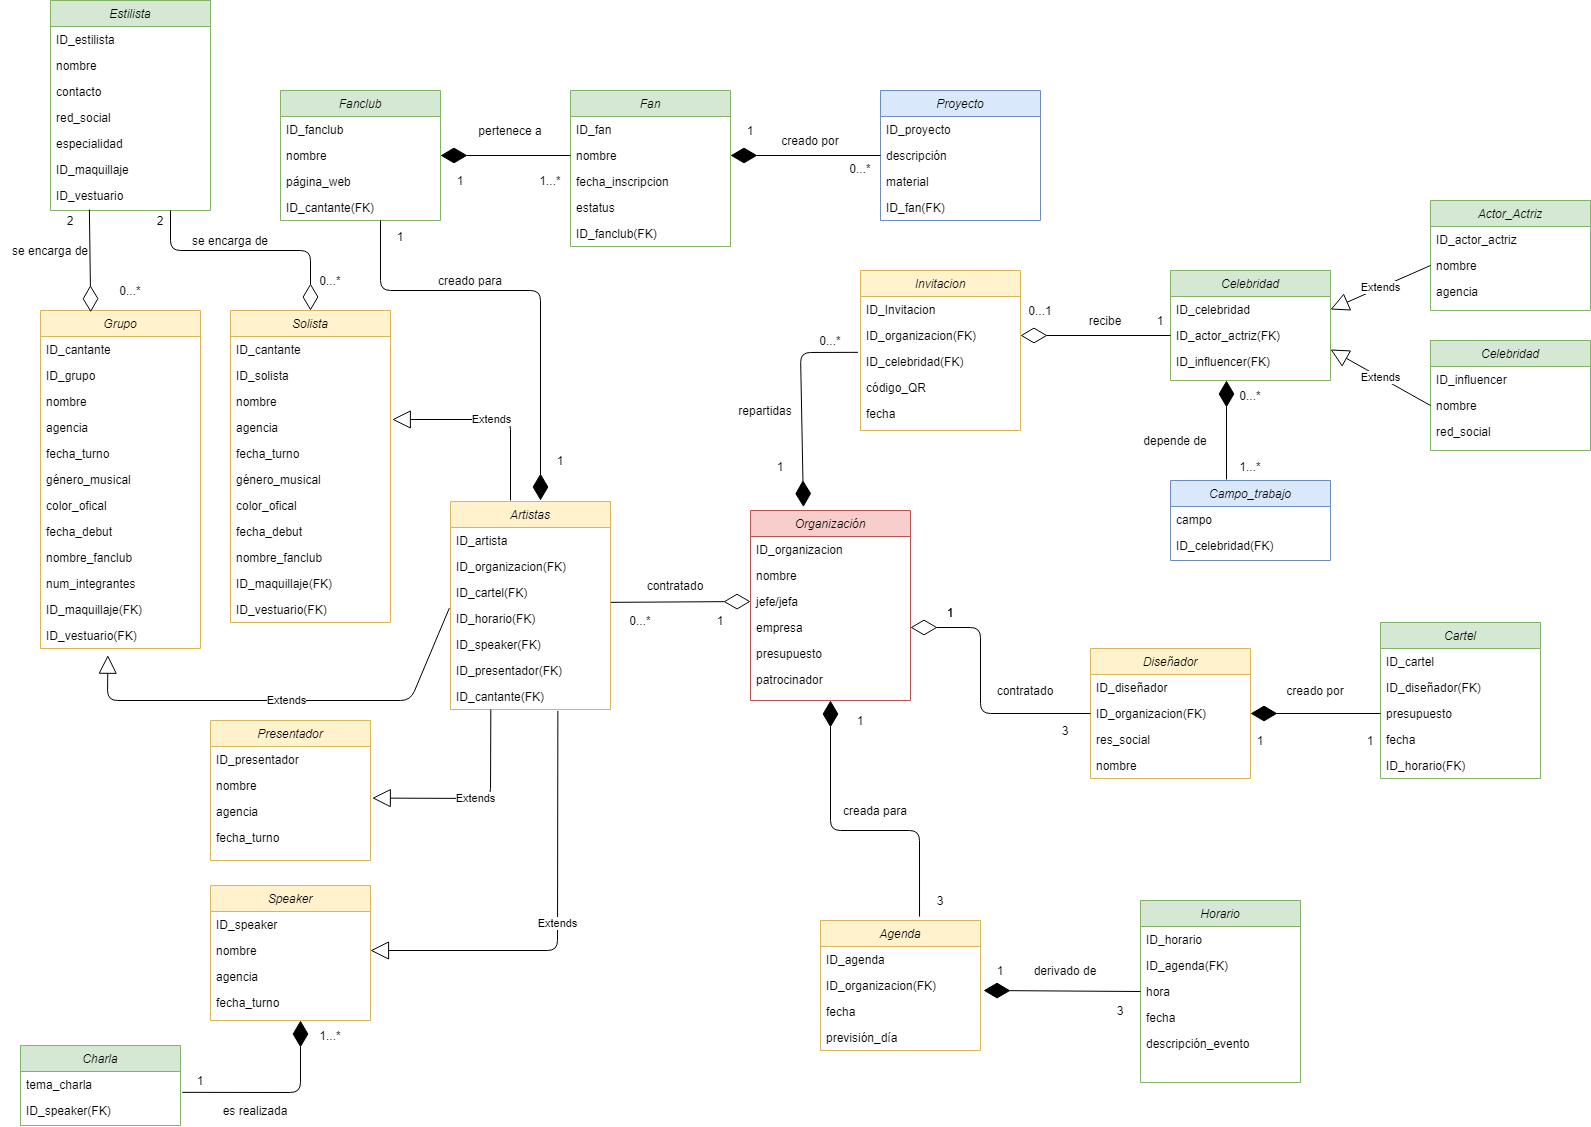
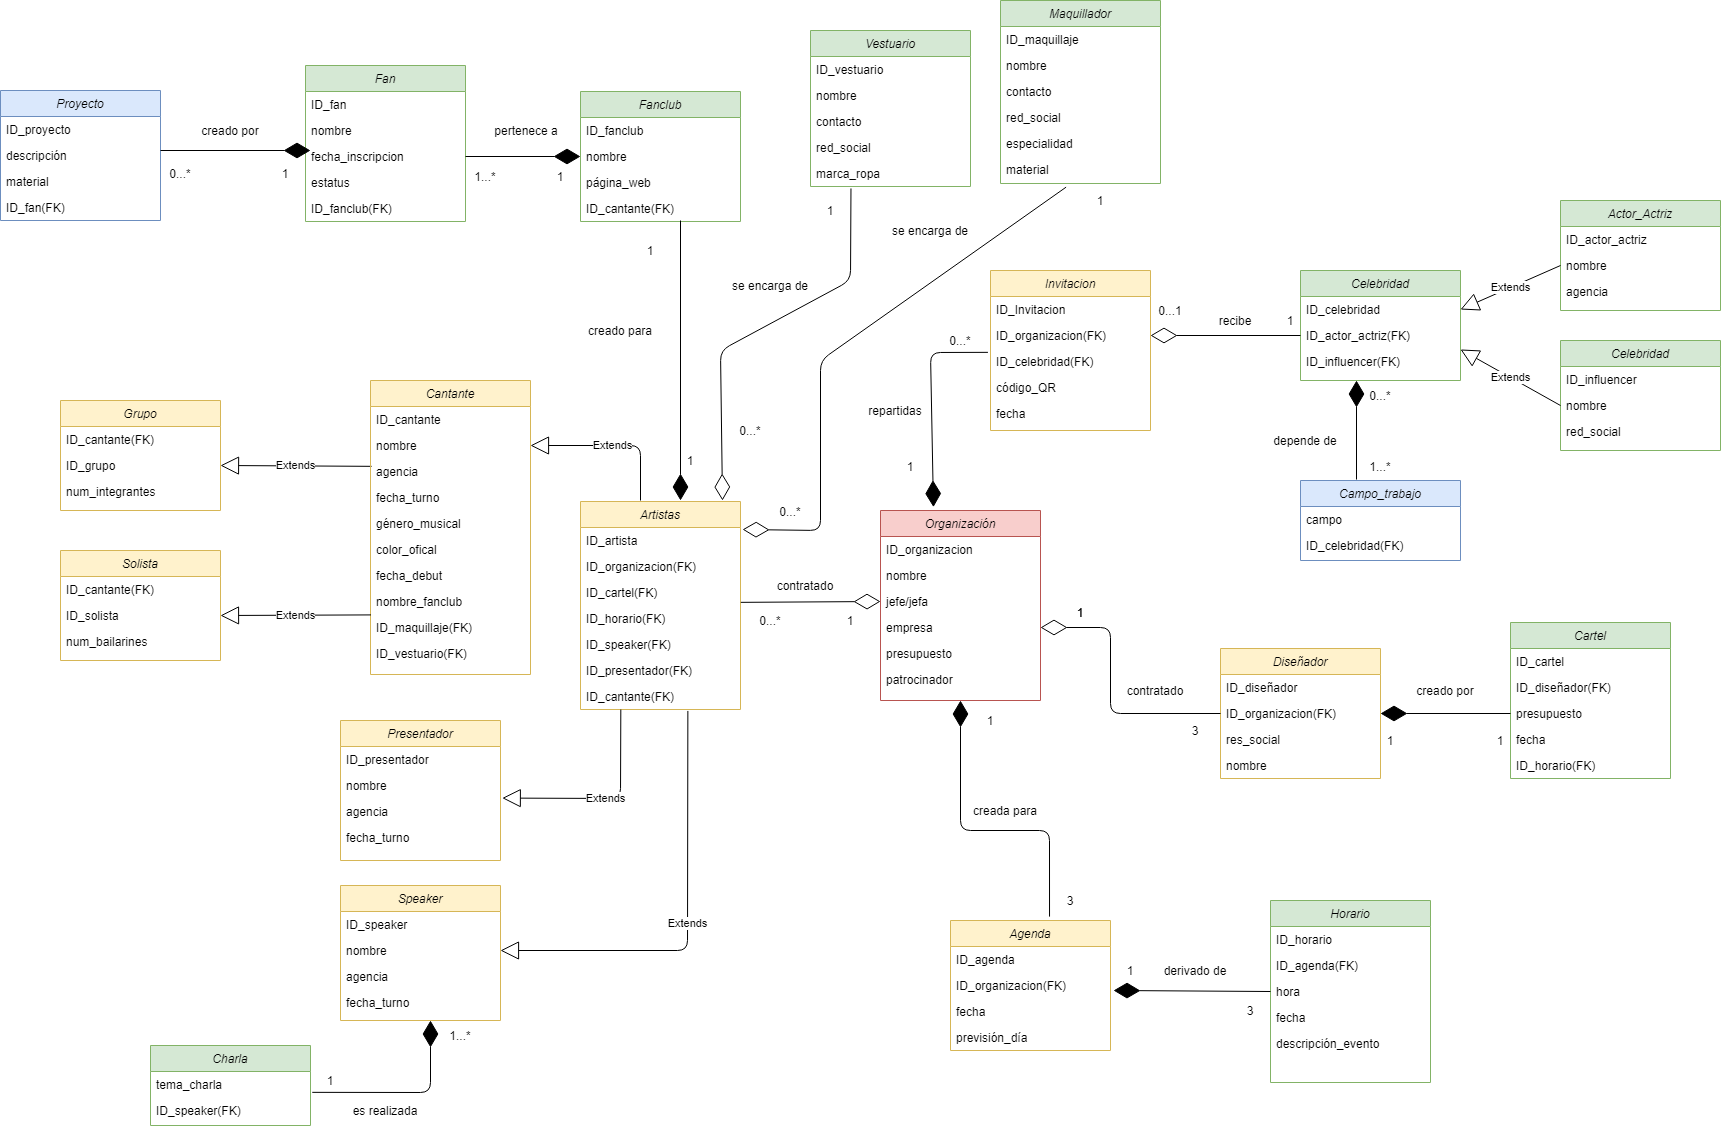
Actualizado archivos con nuevas especificaciones

diff --git a/Documentación/4.2-Creación_de_Tablas.md b/Documentación/4.2-Creación_de_Tablas.md
@@ -1,11 +1,13 @@
 ## 4-Modelo Físico
 ### 4.2-Creación de tablas y otros objetos
 
+Están en orden de creación, si no se crearan así algunas de ellas no serían posibles de hacer.
+
 ```sql
 DROP DATABASE IF EXISTS artistas;
 CREATE DATABASE artistas OWNER dbo_daw1_a;
 
--- Creación de tablas: Area Organizacion
+-- Creación de tablas: Area Artistas
 --
 CREATE TABLE organizacion (
     id_organizacion INT CONSTRAINT organizacion_pk PRIMARY KEY,
@@ -16,142 +18,52 @@ CREATE TABLE organizacion (
     patrocinador VARCHAR(20)
 );
 
--- Creación de tablas: Area Artistas
+-- Creación de tablas: Area Agenda
 --
-CREATE TABLE artistas(
-    id_artistas INT CONSTRAINT artistas_pk PRIMARY KEY,
+CREATE TABLE agenda (
+    id_agenda INT CONSTRAINT agenda_pk PRIMARY KEY,
+    fecha DATE NOT NULL,
+    prevision_dia VARCHAR(100) NOT NULL,
     id_organizacion INT NOT NULL,
-    id_cartel INT NOT NULL,
+        CONSTRAINT agenda_organizacion_id_organizacion_fk FOREIGN KEY (id_organizacion) 
+        REFERENCES organizacion (id_organizacion) ON DELETE CASCADE ON UPDATE CASCADE
+);
+
+CREATE TABLE horario (
+    id_horario INT CONSTRAINT horario_pk PRIMARY KEY,
+    fecha DATE NOT NULL,
+    hora VARCHAR(5) NOT NULL,
+    descripcion_evento VARCHAR(50) NOT NULL,
+    id_agenda INT NOT NULL,
+        CONSTRAINT horario_agenda_id_agenda_fk FOREIGN KEY (id_agenda) 
+        REFERENCES agenda (id_agenda) ON DELETE CASCADE ON UPDATE CASCADE
+);
+
+-- Creación de tablas: Area Cartel
+--
+CREATE TABLE diseñador (
+    id_diseñador INT CONSTRAINT diseñador_pk PRIMARY KEY,
+    nombre VARCHAR(20) NOT NULL,
+    red_social VARCHAR(20),
+    id_organizacion INT NOT NULL,
+        CONSTRAINT diseñador_organizacion_id_organizacion_fk FOREIGN KEY (id_organizacion) 
+        REFERENCES organizacion (id_organizacion) ON DELETE CASCADE ON UPDATE CASCADE
+);
+
+CREATE TABLE cartel (
+    id_cartel INT CONSTRAINT cartel_pk PRIMARY KEY,
+    fecha DATE NOT NULL,
+    presupuesto INT NOT NULL,
+    id_diseñador INT NOT NULL,
     id_horario INT NOT NULL,
-    id_speaker INT,
-    id_cantante INT,
-    id_presentador INT,
-        CONSTRAINT artistas_organizacion_id_organizacion_fk FOREIGN KEY (organizacion_id_organizacion) 
-        REFERENCES organizacion (id_organizacion) ON DELETE CASCADE ON UPDATE CASCADE,
-        CONSTRAINT artistas_cartel_id_cartel_fk FOREIGN KEY (cartel_id_cartel) 
-        REFERENCES cartel (id_cartel) ON DELETE CASCADE ON UPDATE CASCADE,
-        CONSTRAINT artistas_horario_id_horario_fk FOREIGN KEY (horario_id_horario) 
+        CONSTRAINT cartel_diseñador_id_diseñador_fk FOREIGN KEY (id_diseñador) 
+        REFERENCES diseñador (id_diseñador) ON DELETE CASCADE ON UPDATE CASCADE,
+        CONSTRAINT cartel_horario_id_horario_fk FOREIGN KEY (id_horario) 
         REFERENCES horario (id_horario) ON DELETE CASCADE ON UPDATE CASCADE
-);
-
-CREATE TABLE speaker (
-    id_speaker  INT CONSTRAINT speaker_pk PRIMARY KEY,
-    nombre  VARCHAR(20) NOT NULL,       
-    agencia  VARCHAR(20),
-    fecha_turno DATE NOT NULL,
-
-);
-
-CREATE TABLE charla (
-    tema_charla VARCHAR(30) CONSTRAINT charla_pk PRIMARY KEY,
-    id_speaker INT NOT NULL,
-        CONSTRAINT charla_speaker_id_speaker_fk FOREIGN KEY (speaker_id_speaker) 
-        REFERENCES speaker (id_speaker) ON DELETE CASCADE ON UPDATE CASCADE
-);
-
-CREATE TABLE presentador (
-    id_presentador  INT NOT NULL,
-    nombre  VARCHAR(20) NOT NULL,       
-    agencia  VARCHAR(20),
-    fecha_turno DATE NOT NULL
-);
-
-CREATE TABLE estilista (
-    id_estilista INT CONSTRAINT estilista_pk PRIMARY KEY,
-    id_maquillaje INT,
-    id_vestuario INT,
-    nombre VARCHAR(20) NOT NULL,
-    contacto VARCHAR(20) NOT NULL,
-    red_social VARCHAR(15),
-    especialidad VARCHAR(20) NOT NULL,
-);
-
-CREATE TABLE solista (
-    id_cantante  INT NOT NULL,
-    id_solista INT NOT NULL,
-    nombre  VARCHAR(20) NOT NULL,       
-    agencia  VARCHAR(20),
-    fecha_turno DATE NOT NULL,
-    genero_musical VARCHAR(30) NOT NULL,
-    color_oficial VARCHAR(10),
-    fecha_debut DATE,
-    nombre_fanclub VARCHAR(15),
-    id_maquillaje INT NOT NULL,
-    id_vestuario INT NOT NULL,
-        CONSTRAINT solista_estilista_id_maquillaje_fk FOREIGN KEY (estilista_id_maquillaje) 
-        REFERENCES estilista (id_maquillaje) ON DELETE CASCADE ON UPDATE CASCADE,
-        CONSTRAINT solista_estilista_id_vestuario_fk FOREIGN KEY (estilista_id_vestuario) 
-        REFERENCES estilista (id_vestuario) ON DELETE CASCADE ON UPDATE CASCADE
-);
-
-CREATE TABLE grupo (
-    id_cantante  INT NOT NULL,
-    id_grupo INT NOT NULL,
-    nombre  VARCHAR(20) NOT NULL,       
-    agencia  VARCHAR(20),
-    fecha_turno DATE NOT NULL,
-    genero_musical VARCHAR(30) NOT NULL,
-    color_oficial VARCHAR(10),
-    fecha_debut DATE,
-    nombre_fanclub VARCHAR(15),
-    num_integrantes INT NOT NULL,
-    id_maquillaje INT NOT NULL,
-    id_vestuario INT NOT NULL,
-        CONSTRAINT solista_estilista_id_maquillaje_fk FOREIGN KEY (estilista_id_maquillaje) 
-        REFERENCES estilista (id_maquillaje) ON DELETE CASCADE ON UPDATE CASCADE,
-        CONSTRAINT solista_estilista_id_vestuario_fk FOREIGN KEY (estilista_id_vestuario) 
-        REFERENCES estilista (id_vestuario) ON DELETE CASCADE ON UPDATE CASCADE
-);
-
-CREATE TABLE fanclub (
-    id_fanclub INT CONSTRAINT fanclub_pk PRIMARY KEY,
-    nombre VARCHAR(15) NOT NULL,
-    pagina_web VARCHAR(35),
-    id_cantante INT NOT NULL,
-        CONSTRAINT fanclub_solista_id_cantante_fk FOREIGN KEY (solista_id_cantante) 
-        REFERENCES solista (id_cantante) ON DELETE CASCADE ON UPDATE CASCADE,
-        CONSTRAINT fanclub_grupo_id_cantante_fk FOREIGN KEY (grupo_id_cantante) 
-        REFERENCES grupo (id_cantante) ON DELETE CASCADE ON UPDATE CASCADE
-);
-
-CREATE TABLE fan(
-    id_fan INT CONSTRAINT fan_pk PRIMARY KEY,
-    nombre VARCHAR(20) NOT NULL,
-    fecha_inscripcion DATE NOT NULL,
-    estatus VARCHAR(10) NOT NULL,
-    id_fanclub INT NOT NULL,
-        CONSTRAINT fan_fanclub_id_fanclub_fk FOREIGN KEY (fanclub_id_fanclub) 
-        REFERENCES fanclub (id_fanclub) ON DELETE CASCADE ON UPDATE CASCADE,
-);
-
-CREATE TABLE proyecto(
-    id_proyecto INT CONSTRAINT proyecto_id PRIMARY KEY,
-    descripcion VARCHAR(40) NOT NULL,
-    material VARCHAR(40),
-    id_fan INT NOT NULL,
-        CONSTRAINT proyecto_fan_id_fan_fk FOREIGN KEY (fan_id_fanc) 
-        REFERENCES fan (id_fan) ON DELETE CASCADE ON UPDATE CASCADE
 );
 
 -- Creación de tablas: Area Invitaciones
 --
-CREATE TABLE celebridades (
-    id_celebridad INT CONSTRAINT celebridades_pk PRIMARY KEY,
-    id_actor_actriz INT,
-    id_influencer INT,
-        CONSTRAINT celebridades_actor_actriz_id_actor_actriz_fk FOREIGN KEY (actor_actriz_id_actor_actriz) 
-        REFERENCES actor_actriz (id_fan) ON DELETE CASCADE ON UPDATE CASCADE,
-        CONSTRAINT celebridades_influencer_id_influencer_fk FOREIGN KEY (influencer_id_influencer) 
-        REFERENCES influencer (id_influencer) ON DELETE CASCADE ON UPDATE CASCADE
-);
-
-CREATE TABLE campo_trabajo (
-    campo_trabajo VARCHAR(30) CONSTRAINT campo_trabajo_pk PRIMARY KEY,
-    id_celebridad INT NOT NULL,
-        CONSTRAINT campo_trabajo_celebridades_id_celebridad_fk FOREIGN KEY (celebridades_id_celebridad) 
-        REFERENCES celebridades (id_celebridad) ON DELETE CASCADE ON UPDATE CASCADE
-);
-
 CREATE TABLE actor_actriz (
     id_act INT CONSTRAINT actor_actriz_pk PRIMARY KEY,
     nombre VARCHAR(20) NOT NULL,
@@ -164,59 +76,155 @@ CREATE TABLE influencer (
     red_social VARCHAR(15) NOT NULL
 );
 
+CREATE TABLE celebridades (
+    id_celebridad INT CONSTRAINT celebridades_pk PRIMARY KEY,
+    id_act INT UNIQUE,
+    id_influencer INT UNIQUE,
+        CONSTRAINT celebridades_actor_actriz_id_act_fk FOREIGN KEY (id_act) 
+        REFERENCES actor_actriz (id_act) ON DELETE CASCADE ON UPDATE CASCADE,
+        CONSTRAINT celebridades_influencer_id_influencer_fk FOREIGN KEY (id_influencer) 
+        REFERENCES influencer (id_influencer) ON DELETE CASCADE ON UPDATE CASCADE
+);
+
+CREATE TABLE campo_trabajo (
+    campo_trabajo VARCHAR(30) CONSTRAINT campo_trabajo_pk PRIMARY KEY,
+    id_celebridad INT NOT NULL,
+        CONSTRAINT campo_trabajo_celebridades_id_celebridad_fk FOREIGN KEY (id_celebridad) 
+        REFERENCES celebridades (id_celebridad) ON DELETE CASCADE ON UPDATE CASCADE
+);
+
 CREATE TABLE invitacion (
     id_invitacion INT CONSTRAINT invitacion_pk PRIMARY KEY,
     codigo_QR VARCHAR(25) NOT NULL,
     fecha DATE NOT NULL,
     id_celebridad INT NOT NULL,
     id_organizacion INT NOT NULL,
-        CONSTRAINT invitacion_celebridades_id_celebridad_fk FOREIGN KEY (celebridades_id_celebridad) 
+        CONSTRAINT invitacion_celebridades_id_celebridad_fk FOREIGN KEY (id_celebridad) 
         REFERENCES celebridades (id_celebridad) ON DELETE CASCADE ON UPDATE CASCADE,
-        CONSTRAINT invitacion_organizacion_id_organizacion_fk FOREIGN KEY (organizacion_id_organizacion) 
+        CONSTRAINT invitacion_organizacion_id_organizacion_fk FOREIGN KEY (id_organizacion) 
         REFERENCES organizacion (id_organizacion) ON DELETE CASCADE ON UPDATE CASCADE
 );
 
--- Creación de tablas: Area Cartel
+-- Creación de tablas: Area Artistas
 --
-CREATE TABLE diseñador (
-    id_diseñador INT CONSTRAINT diseñador_pk PRIMARY KEY,
+CREATE TABLE speaker (
+    id_speaker INT CONSTRAINT speaker_pk PRIMARY KEY,
+    nombre  VARCHAR(20) NOT NULL,       
+    agencia  VARCHAR(20),
+    fecha_turno DATE NOT NULL
+);
+
+CREATE TABLE charla (
+    tema_charla VARCHAR(30) CONSTRAINT charla_pk PRIMARY KEY,
+    id_speaker INT NOT NULL,
+        CONSTRAINT charla_speaker_id_speaker_fk FOREIGN KEY (id_speaker) 
+        REFERENCES speaker (id_speaker) ON DELETE CASCADE ON UPDATE CASCADE
+);
+
+CREATE TABLE presentador (
+    id_presentador  INT CONSTRAINT presentador_pk PRIMARY KEY,
+    nombre  VARCHAR(20) NOT NULL,       
+    agencia  VARCHAR(20),
+    fecha_turno DATE NOT NULL
+);
+
+CREATE TABLE maquillador (
+    id_maquillador INT CONSTRAINT maquillador_pk PRIMARY KEY,
     nombre VARCHAR(20) NOT NULL,
-    red_social VARCHAR(20),
-    id_organizacion INT NOT NULL,
-        CONSTRAINT diseñador_organizacion_id_organizacion_fk FOREIGN KEY (organizacion_id_organizacion) 
-        REFERENCES organizacion (id_organizacion) ON DELETE CASCADE ON UPDATE CASCADE
+    contacto VARCHAR(20) NOT NULL,
+    red_social VARCHAR(15),
+    especialidad VARCHAR(20) NOT NULL,
+    material VARCHAR(60)
 );
 
-CREATE TABLE cartel (
-    id_cartel INT CONSTRAINT cartel_pk PRIMARY KEY,
-    fecha DATE NOT NULL,
-    presupuesto INT NOT NULL,
-    id_diseñador INT NOT NULL,
+CREATE TABLE vestuario (
+    id_vestuario INT CONSTRAINT vestuario_pk PRIMARY KEY,
+    nombre VARCHAR(20) NOT NULL,
+    contacto VARCHAR(20) NOT NULL,
+    red_social VARCHAR(15),
+    marca_ropa VARCHAR(15)
+);
+
+CREATE TABLE cantante (
+    id_cantante INT CONSTRAINT cantante_pk PRIMARY KEY,
+    nombre  VARCHAR(20) NOT NULL,       
+    agencia  VARCHAR(20) NOT NULL,
+    fecha_turno DATE NOT NULL,
+    genero_musical VARCHAR(30) NOT NULL,
+    color_oficial VARCHAR(10),
+    fecha_debut DATE,
+    nombre_fanclub VARCHAR(15),
+    id_maquillador INT NOT NULL,
+    id_vestuario INT NOT NULL,
+        CONSTRAINT cantante_maquillador_id_maquillador_fk FOREIGN KEY (id_maquillador) 
+        REFERENCES maquillador (id_maquillador) ON DELETE CASCADE ON UPDATE CASCADE,
+        CONSTRAINT cantante_vestuario_id_vestuario_fk FOREIGN KEY (id_vestuario) 
+        REFERENCES vestuario (id_vestuario) ON DELETE CASCADE ON UPDATE CASCADE
+);
+
+CREATE TABLE solista (
+    id_solista INT CONSTRAINT solista_pk PRIMARY KEY,
+    num_bailarines INT,
+    id_cantante INT NOT NULL,
+        CONSTRAINT solista_cantante_id_cantante_fk FOREIGN KEY (id_cantante) 
+        REFERENCES cantante (id_cantante) ON DELETE CASCADE ON UPDATE CASCADE
+);
+
+CREATE TABLE grupo (
+    id_grupo INT CONSTRAINT grupo_pk PRIMARY KEY,
+    num_integrantes INT NOT NULL,
+    id_cantante INT NOT NULL,
+        CONSTRAINT grupo_cantante_id_cantante_fk FOREIGN KEY (id_cantante) 
+        REFERENCES cantante (id_cantante) ON DELETE CASCADE ON UPDATE CASCADE
+);
+
+CREATE TABLE artistas(
+    id_artistas INT CONSTRAINT artistas_pk PRIMARY KEY,
+    id_organizacion INT NOT NULL,
+    id_cartel INT NOT NULL,
     id_horario INT NOT NULL,
-        CONSTRAINT cartel_diseñador_id_diseñador_fk FOREIGN KEY (diseñador_id_diseñador) 
-        REFERENCES diseñador (id_diseñador) ON DELETE CASCADE ON UPDATE CASCADE,
-        CONSTRAINT cartel_horario_id_horario_fk FOREIGN KEY (horario_id_horario) 
-        REFERENCES horario (id_horario) ON DELETE CASCADE ON UPDATE CASCADE
+    id_speaker INT,
+    id_cantante INT,
+    id_presentador INT,
+        CONSTRAINT artistas_organizacion_id_organizacion_fk FOREIGN KEY (id_organizacion) 
+        REFERENCES organizacion (id_organizacion) ON DELETE CASCADE ON UPDATE CASCADE,
+        CONSTRAINT artistas_cartel_id_cartel_fk FOREIGN KEY (id_cartel) 
+        REFERENCES cartel (id_cartel) ON DELETE CASCADE ON UPDATE CASCADE,
+        CONSTRAINT artistas_horario_id_horario_fk FOREIGN KEY (id_horario) 
+        REFERENCES horario (id_horario) ON DELETE CASCADE ON UPDATE CASCADE,
+        CONSTRAINT artistas_speaker_id_speaker_fk FOREIGN KEY (id_speaker) 
+        REFERENCES speaker (id_speaker) ON DELETE CASCADE ON UPDATE CASCADE,
+        CONSTRAINT artistas_presentador_id_presentador_fk FOREIGN KEY (id_presentador) 
+        REFERENCES presentador (id_presentador) ON DELETE CASCADE ON UPDATE CASCADE,
+        CONSTRAINT artistas_cantante_id_cantante_fk FOREIGN KEY (id_cantante) 
+        REFERENCES cantante (id_cantante) ON DELETE CASCADE ON UPDATE CASCADE
 );
 
--- Creación de tablas: Area Agenda
---
-CREATE TABLE agenda (
-    id_agenda INT CONSTRAINT agenda_pk PRIMARY KEY,
-    fecha DATE NOT NULL,
-    prevision_dia VARCHAR(100) NOT NULL,
-    id_organizacion INT NOT NULL,
-        CONSTRAINT agenda_organizacion_id_organizacion_fk FOREIGN KEY (organizacion_id_organizacion) 
-        REFERENCES organizacion (id_organizacion) ON DELETE CASCADE ON UPDATE CASCADE
+CREATE TABLE fanclub (
+    id_fanclub INT CONSTRAINT fanclub_pk PRIMARY KEY,
+    nombre VARCHAR(15) NOT NULL,
+    pagina_web VARCHAR(35),
+    id_cantante INT NOT NULL,
+        CONSTRAINT fanclub_cantante_id_cantante_fk FOREIGN KEY (id_cantante) 
+        REFERENCES cantante (id_cantante) ON DELETE CASCADE ON UPDATE CASCADE
 );
 
-CREATE TABLE horario (
-    id_horario INT CONSTRAINT horario_pk PRIMARY KEY,
-    fecha DATE NOT NULL,
-    hora DATE NOT NULL,
-    descripcion_evento VARCHAR(50) NOT NULL,
-    id_agenda INT NOT NULL,
-        CONSTRAINT horario_agenda_id_agenda_fk FOREIGN KEY (agenda_id_agenda) 
-        REFERENCES agenda (id_agenda) ON DELETE CASCADE ON UPDATE CASCADE
+CREATE TABLE fan(
+    id_fan INT CONSTRAINT fan_pk PRIMARY KEY,
+    nombre VARCHAR(20) NOT NULL,
+    fecha_inscripcion DATE NOT NULL,
+    estatus VARCHAR(10) NOT NULL,
+    id_fanclub INT NOT NULL,
+        CONSTRAINT fan_fanclub_id_fanclub_fk FOREIGN KEY (id_fanclub) 
+        REFERENCES fanclub (id_fanclub) ON DELETE CASCADE ON UPDATE CASCADE
+);
+
+CREATE TABLE proyecto(
+    id_proyecto INT CONSTRAINT proyecto_id PRIMARY KEY,
+    descripcion VARCHAR(40) NOT NULL,
+    material VARCHAR(40),
+    id_fan INT NOT NULL,
+        CONSTRAINT proyecto_fan_id_fan_fk FOREIGN KEY (id_fan) 
+        REFERENCES fan (id_fan) ON DELETE CASCADE ON UPDATE CASCADE
 );
 ````
